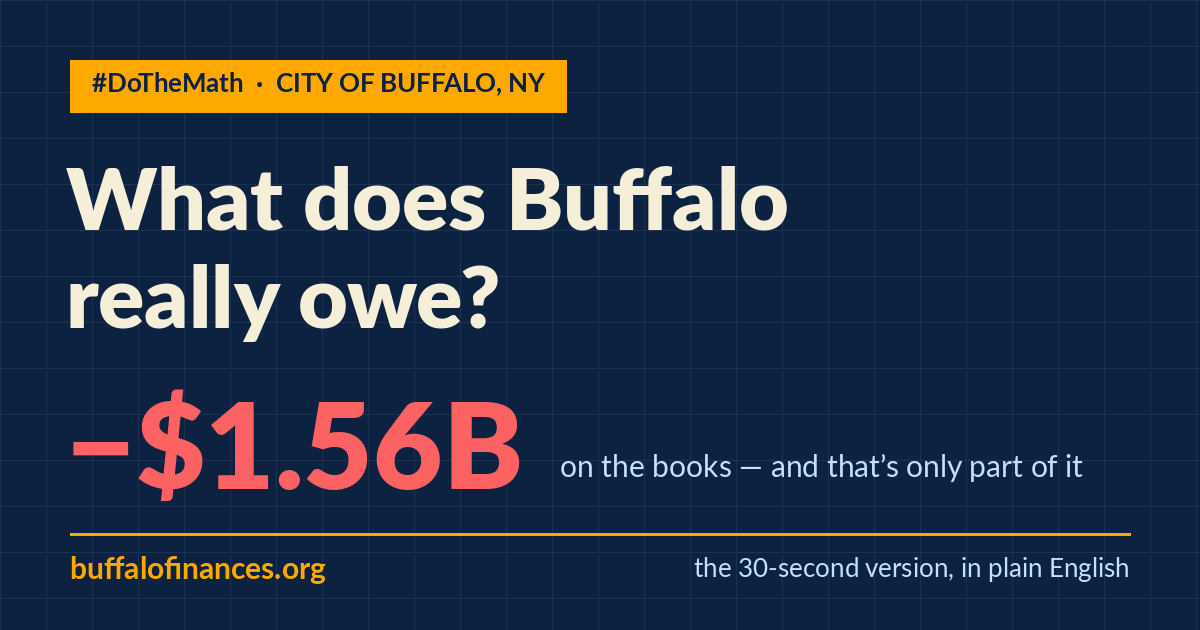
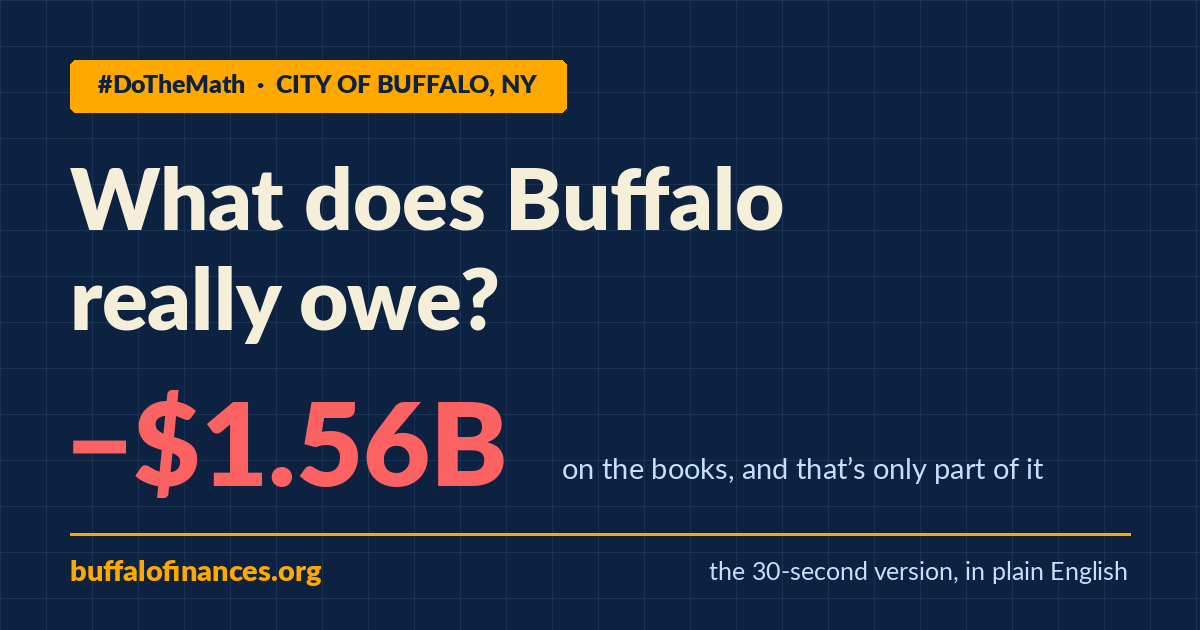
Add files via upload

diff --git a/take-action.html b/take-action.html
@@ -152,14 +152,14 @@
       <details><summary>Why this number, and why it's winnable</summary>
       <div>
       <p>The city keeps track of how old its roads and pipes are getting, but it has never published what fixing them would cost. And you can't plan for, or budget for, a cost that's never been totaled. The good news: a rough first estimate is cheap and quick to produce, and it takes just one Council member to ask for it.</p>
-      <p>Nobody here wants to cut Buffalo down to size. The point is being able to <strong>afford the things that make it worth living in</strong>, good parks, open libraries, clean water, reliable services, and to keep affording them.</p>
+      <p>Nobody here wants a smaller, cheaper Buffalo. The point is being able to <strong>afford the things that make it worth living in</strong>, good parks, open libraries, clean water, reliable services, and to keep affording them.</p>
       </div>
       </details>
     </div>
   </section>
 
   <section>
-    <p class="endorse">This isn't a fringe request. In May 2026, Richard Ciccarone, President Emeritus of Merritt Research Services (an Investortools company), studied nearly 2,000 U.S. cities, pegged their unmeasured infrastructure-repair burden at about $1&nbsp;trillion, larger than their bonded debt and unfunded pensions combined, and urged cities to start measuring and publishing exactly this number. Buffalo can be one of the first. <a class="il" href="https://www.investortools.com/news-insights/new-report-finds-u-s-cities-face-1-trillion-infrastructure-replacement-obligation/" target="_blank" rel="noopener">Read the report&nbsp;&#8599;</a></p>
+    <p class="endorse">This isn't a fringe request. In May 2026, Richard Ciccarone, President Emeritus of Merritt Research Services (an Investortools company), studied nearly 2,000 U.S. cities and pegged their unmeasured infrastructure-repair burden at about $1&nbsp;trillion, larger than their bonded debt and unfunded pensions combined. He urged cities to start measuring and publishing exactly this number. Buffalo can be one of the first. <a class="il" href="https://www.investortools.com/news-insights/new-report-finds-u-s-cities-face-1-trillion-infrastructure-replacement-obligation/" target="_blank" rel="noopener">Read the report&nbsp;&#8599;</a></p>
   </section>
 
   <section>
@@ -173,7 +173,7 @@
           <span class="pk-check">&#10003;</span>
           <span>Your Council member: <strong id="pkName"></strong> &middot; <span id="pkEmail"></span></span>
           <a id="pkVerify" href="https://www.buffalony.gov/Directory.aspx?did=65" target="_blank" rel="noopener">verify in the city's staff directory &#8599;</a>
-          <span style="flex-basis:100%;font-size:.86rem;color:var(--text-mid)">Tip: letters get read sooner when the district office staff see them too. The <a href="https://www.buffalony.gov/Directory.aspx?did=65" target="_blank" rel="noopener">staff directory</a> lists each office's legislative assistants&mdash;consider CC'ing them.</span>
+          <span style="flex-basis:100%;font-size:.86rem;color:var(--text-mid)">Tip: letters get read sooner when the district office staff see them too. The <a href="https://www.buffalony.gov/Directory.aspx?did=65" target="_blank" rel="noopener">staff directory</a> lists each office's legislative assistants; consider CC'ing them.</span>
         </div>
         <p class="note" style="margin-top:10px">Member emails checked July 2026 against the city's <a href="https://www.buffalony.gov/Directory.aspx?did=65" target="_blank" rel="noopener">Common Council staff directory</a>. If one bounces, the directory has the latest.</p>
       </div>
@@ -252,13 +252,21 @@ var FULL = [
 "",
 "I'm a Buffalo resident in your district, and I'm writing with one specific, low-cost request.",
 "",
-"My request: that the City of Buffalo publish, once a year, a single 'cost of good repair' figure: roughly what it would take to bring the roads, water mains, and buildings the city already owns back to good condition, from the potholes we all dodge to the pipes underground.",
+"My request",
+"That the City of Buffalo publish, once a year, a single 'cost of good repair' figure: roughly what it would take to bring the roads, water mains, and buildings we already own back to good condition, from the potholes we all dodge to the pipes underground.",
 "",
-"Why it matters: Buffalo's own audited reports show that much of what the city owes is promises it hasn't set money aside for, plus repair needs that no report totals. The audit records how worn our infrastructure is, about half its value already used up, but never what fixing it would cost. Without that number, neither the city nor the Council can plan for its biggest unmeasured cost. With it published each year, the city can tackle the most urgent repairs first and show residents real progress.",
+"Why it matters",
+"• Much of what Buffalo owes is promises it hasn't funded, plus repair needs that no report totals.",
+"• The audit records how worn our infrastructure is, about half its value already used up, but never what fixing it would cost.",
+"• Without that number, neither the city nor the Council can plan for its single biggest unmeasured cost.",
+"• Published each year, the figure lets the city fix the most urgent things first and show residents real progress.",
 "",
-"Why it's achievable: a first rough estimate can be built from figures already in the audit. Federal agencies and New York City publish versions of this number, and Buffalo's move this year to data-driven, needs-based paving is exactly the right foundation. This request simply extends that work from a ranked list of streets to one published dollar figure for everything we own.",
+"Why it's achievable",
+"• A first rough estimate can be built from figures already in the audit.",
+"• Federal agencies and New York City already publish versions of this number.",
+"• Buffalo's new data-driven, needs-based paving is the right foundation; this simply extends it from a ranked list of streets to one dollar figure for everything we own.",
 "",
-"I'm not writing to point fingers. The city has taken real steps on its finances lately, and this is a natural next one. I want Buffalo to thrive: a city that can afford good parks, open libraries, clean water, and reliable services, and keep affording them.",
+"I'm not writing to point fingers. The city has taken real steps on its finances lately, and this is a natural next one. I want Buffalo to thrive, and to keep affording the things that make it worth living in: good parks, open libraries, clean water, and reliable services.",
 "",
 "Would you support requesting this number this year? I'd be grateful to know where you stand. Every figure behind this request is public and checkable at buffalofinances.org.",
 "",
@@ -273,9 +281,14 @@ var SHORT = [
 "",
 "I live in your district, and I'm writing with one specific request.",
 "",
-"My request: that the City of Buffalo publish, once a year, a single 'cost of good repair' number: roughly what it would take to bring the roads, water mains, and buildings we already own back to good condition.",
+"My request",
+"That the City of Buffalo publish, once a year, a single 'cost of good repair' number: roughly what it would take to bring the roads, water mains, and buildings we already own back to good condition.",
 "",
-"Why: the city's audited reports record how worn our infrastructure is, but no report totals what fixing it would cost, and you can't budget for a cost that's never been totaled. A first rough estimate can be built from figures already in the audit, and the city's new data-driven paving program is exactly the right start. (Every figure: buffalofinances.org)",
+"Why it matters",
+"• The city's audited reports record how worn our infrastructure is, but no report totals what fixing it would cost, and you can't budget for a cost that's never been totaled.",
+"• A first estimate can be built from figures already in the audit, and the city's new data-driven paving program is the right start to build on.",
+"",
+"Every figure behind this request is public at buffalofinances.org.",
 "",
 "Would you support requesting this number this year? I'd be grateful to know where you stand.",
 "",

diff --git a/finances-explained.html b/finances-explained.html
@@ -65,6 +65,8 @@
   .answer-num{font-size:clamp(4.5rem,16vw,8rem);color:var(--coral-deep);margin:4px 0 6px}
   .big-sec{font-size:clamp(3rem,12vw,6.5rem);margin:6px 0 8px}
   .perhh{font-size:1.12rem;color:var(--navy);font-weight:700;margin-bottom:8px}
+  .keypoint{background:var(--cream);border-left:4px solid var(--coral-deep);border-radius:0 10px 10px 0;padding:16px 20px;margin:26px 0;font-size:1.06rem;line-height:1.5;color:var(--navy)}
+  .keypoint strong{color:var(--coral-deep)}
   .perhh span{color:var(--coral-deep)}
   .eq{display:flex;align-items:stretch;gap:12px;flex-wrap:wrap;margin:26px 0 6px}
   .eq .box{flex:1;min-width:150px;background:#fff;border:1px solid #e4dcc4;border-radius:10px;padding:18px 16px;text-align:center;box-shadow:0 1px 4px rgba(0,0,0,.05)}
@@ -110,6 +112,11 @@
   .btn-line:hover{background:var(--navy);color:#fff}
   footer{background:var(--navy);color:rgba(197,223,252,.7);padding:40px 0;border-top:3px solid var(--gold);font-size:.85rem;line-height:1.6}
   footer p{color:rgba(197,223,252,.7)}
+  footer details.foot-collapse>summary{cursor:pointer;list-style:none;font-family:'Raleway',sans-serif;font-weight:800;color:var(--cream);padding:2px 0}
+  footer details.foot-collapse>summary::-webkit-details-marker{display:none}
+  footer details.foot-collapse>summary::after{content:' +';color:var(--gold);font-weight:700}
+  footer details.foot-collapse[open]>summary::after{content:' \2013';color:var(--gold)}
+  footer details.foot-collapse p{margin-top:8px}
   footer .wrap{max-width:760px}
   footer strong{color:var(--cream)}
   footer a{color:var(--gold);text-decoration:none;font-weight:700}
@@ -306,7 +313,7 @@
       <div class="op">=</div>
       <div class="box net"><div class="t">Where you stand</div><div class="d">Ahead, or behind</div></div>
     </div>
-    <p style="margin-top:22px;">A city has this number too: its <strong>net financial position</strong>. A city isn't trying to owe nothing; borrowing for a bridge that lasts fifty years is normal. The real test is <strong>whether it funds its promises and maintains what it owns</strong>, and that's the test this page walks through.</p>
+    <p style="margin-top:22px;">A city has this number too: its <strong>net financial position</strong>.</p>
   </div>
 </section>
 <!-- THE ANSWER -->
@@ -399,7 +406,7 @@
     <h2>One cost the books still leave out</h2>
     <div class="bignum big-sec count" role="img" aria-label="1.7 to 2.2 billion dollars" style="color:var(--coral-deep)" data-tpl="$@B&ndash;$#B" data-n="1.7" data-n2="2.2" data-dp="1">$1.7B&ndash;$2.2B</div>
     <p class="lead">Even after retiree health care, pensions, and debt, one real cost is still missing from the city's financial reports entirely: what it would take to fill the potholes, replace the worn-out water mains, and repair the aging buildings in an old, over-built city.</p>
-    <p>Buffalo's audit already admits the wear: about <strong>half the value</strong> of its roads, pipes, and buildings is used up, down from roughly 64% twenty years ago. It just doesn't yet total what fixing all that would cost. Run the city's own two numbers through the <a class="il" href="https://www.strongtowns.org/decoder" target="_blank">Strong Towns worksheet</a> and the replacement bill comes to an estimated <strong>$1.7 billion to $2.2 billion</strong>.</p>
+    <p>Buffalo's audit already admits the wear: about <strong>half the value</strong> of its roads, pipes, and buildings is used up, down from roughly 64% twenty years ago. It just doesn't yet total what fixing all that would cost. The replacement bill comes to an estimated <strong>$1.7 billion to $2.2 billion</strong>.</p>
     <details class="more"><summary>Show the math</summary>
     <div class="more-body">
     <div class="math">
@@ -410,12 +417,12 @@
     </div>
     </div></details>
     <p class="perhh" style="color:var(--coral-deep)">Per household, that's another <strong style="color:var(--coral-deep)">$14,000 to $18,000</strong>, on top of what's already owed.</p>
-    <p style="font-size:.98rem;">This is a back-of-the-envelope range, on purpose. The exact figure matters less than two things: it's <strong>large</strong>, and nobody publishes it.</p>
-<details class="more"><summary>Bond analysts have started measuring this number; cities still don't publish it</summary><div class="more-body"><p>Buffalo isn't unusual. In May 2026 the bond-research firm Investortools put this same unmeasured repair burden across all U.S. cities at about <strong>$1 trillion</strong>, 2.6 times their bonded debt and 4 times their unfunded pensions, derived with <a class="il" href="https://www.investortools.com/news-insights/new-report-finds-u-s-cities-face-1-trillion-infrastructure-replacement-obligation/" target="_blank" rel="noopener">the same accounting-based approach</a> this page uses. The analysts who study municipal credit have begun measuring this number. Credit ratings themselves mostly look past it, and that is worth understanding: a rating answers a narrow question, whether bondholders will be repaid, and they almost always are, because debt service gets paid first from a city with taxing power. The burden lands on residents instead, as thinner services and higher taxes. An A+ city can still fall steadily behind on its pipes.</p></div></details>
+    <div class="keypoint">The range is rough on purpose. Two things matter more than the exact figure: it's <strong>large</strong>, and <strong>nobody publishes it</strong>.</div>
 <p><strong>Buffalo has seen this movie before:</strong> twice in the last decade, an accounting rule forced a long-owed cost onto the books overnight. The repair bill is the next one, except this time the city doesn't have to wait for a rule to publish it.</p>
-<details class="more"><summary>The last two times the books caught up</summary>
+<details class="more"><summary>It's happened before, and it's not just Buffalo</summary>
 <div class="more-body">
 <p>In 2015, a new rule (GASB&nbsp;68) put the city's full pension promise on the books. In 2018, another (GASB&nbsp;75) added retiree health care, and roughly <strong>$877&nbsp;million</strong> appeared almost overnight. Neither was new spending; the money had always been owed. The rules just made the city show it, and before 2018 Buffalo's books looked far healthier than they were. The repair bill is the next cost like that, still waiting to surface.</p>
+<p>Buffalo isn't unusual. In May 2026 the bond-research firm Investortools put this same unmeasured repair burden across all U.S. cities at about <strong>$1 trillion</strong>, 2.6 times their bonded debt and 4 times their unfunded pensions, derived with <a class="il" href="https://www.investortools.com/news-insights/new-report-finds-u-s-cities-face-1-trillion-infrastructure-replacement-obligation/" target="_blank" rel="noopener">the same kind of accounting-based approach</a> this page uses. The analysts who study municipal credit have begun measuring this number. Credit ratings themselves mostly look past it, and that is worth understanding: a rating answers a narrow question, whether bondholders will be repaid, and they almost always are, because debt service gets paid first from a city with taxing power. The burden lands on residents instead, as thinner services and higher taxes. A city with an A+ bond rating can still fall steadily behind on its pipes.</p>
 </div></details>
     <details class="more win"><summary>The head start Buffalo already has</summary><div class="more-body"><p><strong>Buffalo has started.</strong> In 2026 the city moved to <a class="il" href="https://www.buffalony.gov/m/newsflash/home/detail/1617" target="_blank">data-driven, needs-based paving</a>, exactly the right instinct. The ask is to extend it from roads to water mains and buildings, and turn the paving list into one published dollar figure for the whole repair bill.</p></div></details>
   </div>
@@ -451,7 +458,7 @@
       <figcaption>What the city's audit already points to, what it leaves out, and the two added together, roughly $30,000 per household.</figcaption>
     </figure>
     <p class="punch" style="margin-top:16px">Buffalo's recovery is real, and its leaders point to genuine progress. But these costs are real too: one already sits in the city's audit, the other in no report at all.</p>
-<p style="margin-top:14px">No one will mail your household a $30,000 bill. It is still your share of what the city has promised, or let wear out, and hasn't paid for, and it comes due anyway: higher taxes, thinner services, or rougher roads. Getting ahead of it is how Buffalo keeps that share from growing.</p>
+<p style="margin-top:14px;color:#ff8a8a">No one will mail your household a $30,000 bill. It is still your share of what the city has promised, or let wear out, and hasn't paid for, and it comes due anyway: higher taxes, thinner services, or rougher roads. Getting ahead of it is how Buffalo keeps that share from growing.</p>
   </div>
 </section>
 <!-- THE LENS -->
@@ -480,7 +487,7 @@
       <figcaption>Half the payers, the whole network. That ratio, more than any single decision or administration, is why upkeep fell behind.</figcaption>
     </figure>
     <p class="take" style="margin-top:30px">2. The fix has a shape too.</p>
-    <p>In 2014, analysts at Urban3 ran the tax math on every parcel in the region for the <em>Dollars &amp; Sense</em> study. For every $1 of value per acre produced by a single-family house in Erie County, a house in Buffalo produced about $3, the average mall $7, a six-story mixed-use building $36, and the Guaranty Building downtown about <strong>$136</strong>. That building opened in 1896 and still tops the list. Compact, durable blocks quietly carry the city, while spread-out single-use land barely covers its own pipes.</p>
+    <p>In 2014, analysts at Urban3 ran the tax math across the region for the <em>Dollars &amp; Sense</em> study. For every $1 of value per acre produced by a single-family house in Erie County, a house in Buffalo produced about $3, the average mall $7, a six-story mixed-use building $36, and the Guaranty Building downtown about <strong>$136</strong>. That building opened in 1896 and still tops the list. Compact, durable blocks quietly carry the city, while spread-out single-use land barely covers its own pipes.</p>
     <figure class="fade">
 <svg viewBox="0 0 760 504" xmlns="http://www.w3.org/2000/svg" role="img" aria-label="Value produced per acre for all fourteen property types in the 2014 Urban3 study, indexed to an Erie County single-family house at one dollar. From the top: Guaranty Building 136, six-story mixed use 36, Main Street mixed use 29, large multifamily 18, residential-commercial conversion 13, small multifamily 10, Walden Galleria 9, three-story mixed use 9, average mall 7, Buffalo house 3, big box 3, strip mall 2, county house 1, heavy industry 30 cents. Mixed-use buildings dominate the top of the chart."><rect x="238" y="8" width="13" height="13" rx="3" fill="#1a7a5a"/><text x="256" y="19" font-family="Lato,sans-serif" font-size="11.5" fill="#4a4a4a">Mixed use</text><rect x="344" y="8" width="13" height="13" rx="3" fill="#d97b6c"/><text x="362" y="19" font-family="Lato,sans-serif" font-size="11.5" fill="#4a4a4a">Commercial</text><rect x="462" y="8" width="13" height="13" rx="3" fill="#8fb0d4"/><text x="480" y="19" font-family="Lato,sans-serif" font-size="11.5" fill="#4a4a4a">Residential</text><text x="228" y="54" text-anchor="end" font-family="Lato,sans-serif" font-size="11.5" fill="#4a4a4a">Guaranty Building, downtown</text><rect x="238" y="40" width="449" height="19" rx="3" fill="#15634a"/><text x="679" y="54" text-anchor="end" font-family="Raleway,sans-serif" font-weight="900" font-size="13" fill="#fff">$136</text><text x="228" y="87" text-anchor="end" font-family="Lato,sans-serif" font-size="11.5" fill="#4a4a4a">Mixed use, 6-story</text><rect x="238" y="73" width="119" height="19" rx="3" fill="#1a7a5a"/><text x="364" y="87" font-family="Raleway,sans-serif" font-weight="900" font-size="12.5" fill="#0c2240">$36</text><text x="228" y="120" text-anchor="end" font-family="Lato,sans-serif" font-size="11.5" fill="#4a4a4a">Main St mixed use, 3-story</text><rect x="238" y="106" width="96" height="19" rx="3" fill="#1a7a5a"/><text x="341" y="120" font-family="Raleway,sans-serif" font-weight="900" font-size="12.5" fill="#0c2240">$29</text><text x="228" y="153" text-anchor="end" font-family="Lato,sans-serif" font-size="11.5" fill="#4a4a4a">Large multifamily</text><rect x="238" y="139" width="59" height="19" rx="3" fill="#8fb0d4"/><text x="304" y="153" font-family="Raleway,sans-serif" font-weight="900" font-size="12.5" fill="#0c2240">$18</text><text x="228" y="186" text-anchor="end" font-family="Lato,sans-serif" font-size="11.5" fill="#4a4a4a">Residential-commercial conversion</text><rect x="238" y="172" width="43" height="19" rx="3" fill="#d97b6c"/><text x="288" y="186" font-family="Raleway,sans-serif" font-weight="900" font-size="12.5" fill="#0c2240">$13</text><text x="228" y="219" text-anchor="end" font-family="Lato,sans-serif" font-size="11.5" fill="#4a4a4a">Small multifamily</text><rect x="238" y="205" width="33" height="19" rx="3" fill="#8fb0d4"/><text x="278" y="219" font-family="Raleway,sans-serif" font-weight="900" font-size="12.5" fill="#0c2240">$10</text><text x="228" y="252" text-anchor="end" font-family="Lato,sans-serif" font-size="11.5" fill="#4a4a4a">Walden Galleria</text><rect x="238" y="238" width="30" height="19" rx="3" fill="#d97b6c"/><text x="275" y="252" font-family="Raleway,sans-serif" font-weight="900" font-size="12.5" fill="#0c2240">$9</text><text x="228" y="285" text-anchor="end" font-family="Lato,sans-serif" font-size="11.5" fill="#4a4a4a">Mixed use, 3-story</text><rect x="238" y="271" width="30" height="19" rx="3" fill="#1a7a5a"/><text x="275" y="285" font-family="Raleway,sans-serif" font-weight="900" font-size="12.5" fill="#0c2240">$9</text><text x="228" y="318" text-anchor="end" font-family="Lato,sans-serif" font-size="11.5" fill="#4a4a4a">Average mall</text><rect x="238" y="304" width="23" height="19" rx="3" fill="#d97b6c"/><text x="268" y="318" font-family="Raleway,sans-serif" font-weight="900" font-size="12.5" fill="#0c2240">$7</text><text x="228" y="351" text-anchor="end" font-family="Lato,sans-serif" font-size="11.5" fill="#4a4a4a">Buffalo single-family house</text><rect x="238" y="337" width="10" height="19" rx="3" fill="#8fb0d4"/><text x="255" y="351" font-family="Raleway,sans-serif" font-weight="900" font-size="12.5" fill="#0c2240">$3</text><text x="228" y="384" text-anchor="end" font-family="Lato,sans-serif" font-size="11.5" fill="#4a4a4a">Average big box</text><rect x="238" y="370" width="10" height="19" rx="3" fill="#d97b6c"/><text x="255" y="384" font-family="Raleway,sans-serif" font-weight="900" font-size="12.5" fill="#0c2240">$3</text><text x="228" y="417" text-anchor="end" font-family="Lato,sans-serif" font-size="11.5" fill="#4a4a4a">Strip mall</text><rect x="238" y="403" width="7" height="19" rx="3" fill="#d97b6c"/><text x="252" y="417" font-family="Raleway,sans-serif" font-weight="900" font-size="12.5" fill="#0c2240">$2</text><text x="228" y="450" text-anchor="end" font-family="Lato,sans-serif" font-size="11.5" fill="#4a4a4a">Erie County single-family house (baseline)</text><rect x="238" y="436" width="3" height="19" rx="3" fill="#8fb0d4"/><text x="248" y="450" font-family="Raleway,sans-serif" font-weight="900" font-size="12.5" fill="#0c2240">$1</text><text x="228" y="483" text-anchor="end" font-family="Lato,sans-serif" font-size="11.5" fill="#4a4a4a">Average heavy industry</text><rect x="238" y="469" width="2" height="19" rx="3" fill="#d97b6c"/><text x="247" y="483" font-family="Raleway,sans-serif" font-weight="900" font-size="12.5" fill="#0c2240">30&cent;</text></svg>
       <figcaption>Value produced per acre, all fourteen property types from the study, indexed to an Erie County single-family house = $1. Every mixed-use type outperforms every single-use type below it. Source: <a class="il" href="https://www.urbanthree.com/" target="_blank" rel="noopener">Urban3</a>, &ldquo;The Dollars &amp; Sense of Development Patterns: Buffalo Niagara&rdquo; (2014, for One Region Forward). Assessments have moved since, and the same pattern shows up in every region Urban3 has mapped.</figcaption>
@@ -531,7 +538,7 @@
 <!-- QUESTIONS & OBJECTIONS -->
 <section class="band-off" id="questions">
   <div class="wrap">
-    <span class="kicker">For the skeptics</span>
+    <span class="kicker">Fair questions</span>
     <h2>Questions &amp; objections</h2>
     <details class="more"><summary>What about borrowing? Should the city take on more?</summary>
       <div class="more-body">
@@ -609,7 +616,9 @@
 <!-- FOOTER -->
 <footer>
   <div class="wrap">
-    <p><strong>How the numbers were built.</strong> <em>Net financial position</em> = Buffalo's money-like assets (cash, investments, and money owed to it) minus everything it owes, for the city as a whole, from the 2025 Annual Comprehensive Financial Report; the yearly figures cover 2006&ndash;2025. The cliff follows an accounting rule (GASB&nbsp;75, 2018) that first required cities to report their full retiree-health promise; an earlier rule (GASB&nbsp;68, 2015) did the same for pensions. The <em>repair-bill estimate</em> follows the Strong Towns <a href="https://www.strongtowns.org/decoder" target="_blank">Infrastructure Liability Worksheet</a>: the wear the audit records ($957.7M) restated to today's construction prices (&times;1.75 to &times;2.25). Per-household figures use about 117,000 Buffalo households (U.S. Census, ACS). See the full <a href="data-sources.html">data &amp; sources</a>.</p>
+    <details class="foot-collapse"><summary>How the numbers were built</summary>
+    <p><em>Net financial position</em> = Buffalo's money-like assets (cash, investments, and money owed to it) minus everything it owes, for the city as a whole, from the 2025 Annual Comprehensive Financial Report; the yearly figures cover 2006&ndash;2025. The cliff follows an accounting rule (GASB&nbsp;75, 2018) that first required cities to report their full retiree-health promise; an earlier rule (GASB&nbsp;68, 2015) did the same for pensions. The <em>repair-bill estimate</em> follows the Strong Towns <a href="https://www.strongtowns.org/decoder" target="_blank">Infrastructure Liability Worksheet</a>: the wear the audit records ($957.7M) restated to today's construction prices (&times;1.75 to &times;2.25). Per-household figures use about 117,000 Buffalo households (U.S. Census, ACS). See the full <a href="data-sources.html">data &amp; sources</a>.</p>
+    </details>
     <p class="dis">An independent #DoTheMath explainer, for educational purposes. Not affiliated with or endorsed by the City of Buffalo. The repair-bill figure is a deliberately rough range; verify against the source documents before relying on it.</p>
   </div>
 </footer>

diff --git a/index.html b/index.html
@@ -31,6 +31,9 @@
   h1{font-family:'Raleway',sans-serif;font-weight:900;font-size:clamp(2rem,5.6vw,3.1rem);line-height:1.07;letter-spacing:-0.02em;margin-bottom:14px}
   h1 span{color:var(--gold)}
   .sub{font-size:1.08rem;color:var(--sky);max-width:540px}
+  .badge-row{display:flex;align-items:center;flex-wrap:wrap;gap:8px 14px;margin-bottom:20px}
+  .badge-row .badge{margin-bottom:0}
+  .badge-tag{font-family:'Raleway',sans-serif;font-weight:700;font-size:.78rem;letter-spacing:.04em;color:var(--sky);opacity:.85}
   /* ===== ANSWER CARD ===== */
   .answer-card{background:#fff;border:1px solid #ece4cf;border-radius:16px;box-shadow:0 14px 44px rgba(12,34,64,.30);padding:28px 26px 22px;margin-top:30px;text-align:center}
   .num{font-family:'Raleway',sans-serif;font-weight:900;font-size:clamp(2.9rem,13vw,4.7rem);line-height:.96;letter-spacing:-0.02em;margin:2px 0 6px;color:var(--coral-deep);transition:color .35s ease,transform .35s ease}
@@ -182,7 +185,10 @@
 <header class="hero">
 <svg class="skyline" viewBox="0 0 1200 140" preserveAspectRatio="xMidYMax slice" aria-hidden="true"><path d="M0 140 L0 96 L36 96 L36 74 L84 74 L84 108 L130 108 L130 60 L142 60 L142 50 L178 50 L178 60 L190 60 L190 108 L240 108 L240 84 L300 84 L300 118 L356 118 L356 66 L410 66 L410 96 L468 96 L468 108 L500 108 L500 88 L560 88 L560 74 L576 74 L576 40 L590 40 L590 22 L596 22 L600 8 L604 22 L610 22 L610 40 L624 40 L624 74 L640 74 L640 88 L700 88 L700 108 L740 108 L740 70 L796 70 L796 96 L860 96 L860 54 L872 54 L872 44 L908 44 L908 54 L920 54 L920 96 L980 96 L980 116 L1040 116 L1040 80 L1100 80 L1100 100 L1160 100 L1160 90 L1200 90 L1200 140 Z"/></svg>
   <div class="wrap">
-    <span class="badge">#DoTheMath · City of Buffalo, NY</span>
+    <div class="badge-row">
+      <span class="badge">#DoTheMath · City of Buffalo, NY</span>
+      <span class="badge-tag">A Strong Towns Buffalo project</span>
+    </div>
     <h1>What does Buffalo really <span>owe</span>?</h1>
     <p class="sub">Buffalo's finances are more understandable, and more fixable, than they look. Here's the honest picture in plain English, and the small first step anyone can push for.</p>
     <div class="answer-card">
@@ -259,7 +265,7 @@
     </a>
   </div>
   <div class="getinvolved">
-    <p>Buffalo's turning a corner, and the to-do list is clear: keep our promises, care for what we own, and grow so new things pay for themselves. Zero debt was never the goal. What matters is a Buffalo that can <strong>afford good things</strong>, good parks, open libraries, clean water, reliable services, and keep affording them for the long haul. <a href="https://www.strongtownsbuffalo.com" target="_blank">Get involved with Strong Towns Buffalo &#8594;</a></p>
+    <p>Buffalo's turning a corner, and the to-do list is clear: keep our promises, care for what we own, and grow by filling in the streets we already serve, so new development pays for itself. We deserve a Buffalo that can <strong>afford good things</strong>, good parks, open libraries, clean water, reliable services, and keep affording them for the long haul. <a href="https://www.strongtownsbuffalo.com" target="_blank">Get involved with Strong Towns Buffalo &#8594;</a></p>
   </div>
 </main>
 <footer>

diff --git a/finance-decoder.html b/finance-decoder.html
@@ -480,8 +480,8 @@
     <p class="summary-footnote">The charts below break it down, grouped by those three questions.</p>
     <div class="outside-review">
       <details class="context-expand" style="margin-top:0"><summary>We're not the only ones doing this math</summary>
-      <p style="margin-top:10px">In <a class="il" href="https://www.osc.ny.gov/press/releases/2026/05/dinapoli-releases-budget-review-city-buffalo" target="_blank">May 2026</a> the New York State Comptroller flagged a structural gap in Buffalo's 2026-27 budget and noted the city had long leaned on non-recurring revenue, including <strong>$331 million</strong> of federal stimulus since 2020-21. The city took that seriously: its adopted 2026-27 budget closes the gap largely through a <strong>19% property-tax levy increase</strong> (trimmed from a proposed 25.8%) and added state aid, a hard step toward what the administration calls &ldquo;returning to fiscal stability.&rdquo; Earlier, in <a class="il" href="https://www.buffalocomptroller.com/DocumentCenter/View/1019/SP-Ratings-for-Buffalo-NY-September-2025" target="_blank">September 2025</a>, months before this budget, S&amp;P had cut its outlook on Buffalo's investment-grade bonds to <strong>Negative</strong> (from Stable), citing the reserve drawdown and continued reliance on one-time revenue. The long-term obligations on this page are why steps this hard keep being necessary, and why getting ahead of them matters.</p>
-      <p>The pattern is national, too: in May 2026 the bond-analytics firm <a class="il" href="https://www.investortools.com/news-insights/new-report-finds-u-s-cities-face-1-trillion-infrastructure-replacement-obligation/" target="_blank" rel="noopener">Investortools</a> quantified the unmeasured repair burden across U.S. cities at about <strong>$1.03 trillion</strong>, 2.6 times their bonded debt and 4 times their unfunded pensions, derived the same way this page derives Buffalo's: from accumulated depreciation in the audited statements.</p>
+      <p style="margin-top:10px">Buffalo's own overseers see the same strain. In <a class="il" href="https://www.osc.ny.gov/press/releases/2026/05/dinapoli-releases-budget-review-city-buffalo" target="_blank">May 2026</a> the NYS Comptroller flagged a structural gap in the 2026-27 budget and the city's long reliance on one-time money, including <strong>$331 million</strong> in federal stimulus since 2020. The adopted budget closed the gap with a <strong>19% property-tax increase</strong> and added state aid. Months earlier, in <a class="il" href="https://www.buffalocomptroller.com/DocumentCenter/View/1019/SP-Ratings-for-Buffalo-NY-September-2025" target="_blank">September 2025</a>, S&amp;P had cut Buffalo's bond outlook to <strong>Negative</strong>, citing the same reserve drawdown and one-time revenue.</p>
+      <p>The pattern is national. In May 2026, <a class="il" href="https://www.investortools.com/news-insights/new-report-finds-u-s-cities-face-1-trillion-infrastructure-replacement-obligation/" target="_blank" rel="noopener">Investortools</a> put the unmeasured repair burden across U.S. cities at about <strong>$1.03 trillion</strong>, 2.6 times their debt and 4 times their pensions, using the same audited-depreciation method this page uses for Buffalo.</p>
       </details>
     </div>
   </div>
@@ -630,7 +630,7 @@
               <div class="takeaway-label">The catch</div>
               Deferred maintenance compounds. Skip a year of repaving and the road degrades faster, costing more to fix later. Buffalo built more than it can afford to maintain, and much of that infrastructure was built in the same era, which means large portions are aging on the same schedule. Strong Towns argues that cities should <a class="il" href="https://www.strongtowns.org/journal/2024-7-22-what-strong-towns-really-says-about-infrastructure-spending" target="_blank">prioritize maintaining existing infrastructure</a> over building new, and that every new investment should be evaluated by whether it generates enough revenue to cover its long-term maintenance costs.
             </div>
-            <div class="chart-cta">This wear is the repair bill nobody totals &mdash; the one number this project asks the city to publish. <a href="finances-explained.html#part3">Read the case</a> or <a href="take-action.html">send the ask</a>.</div>
+            <div class="chart-cta">This wear is the repair bill nobody totals, the one number this project asks the city to publish. <a href="finances-explained.html#part3">Read the case</a> or <a href="take-action.html">send the ask</a>.</div>
           </div>
         </div>
       </div>

diff --git a/data-sources.html b/data-sources.html
@@ -271,7 +271,7 @@
       <li><strong>Government transfers</strong> counts state and federal aid and grants: operating grants, capital grants, state aid (Buffalo's AIM payment is ~$166M), and unrestricted grants. Buffalo's share of Erie County sales tax (the ACFR's "intergovernmental" general revenue, ~$115M in 2025) is treated as local revenue and excluded, so this measures dependence on aid that could be cut. On that basis the share runs from about 35% in 2006 to roughly 42% in 2025.</li>
       <li><strong>Interest</strong> is all interest expense on the Total Primary Government basis: governmental interest and fiscal charges plus the enterprise funds' interest (water system and parking) from the proprietary-fund statements, matching the rest of the page. Most of the decline since 2006 is in the city's tax-supported governmental interest; what remains is largely the self-supporting water system covering its own bonds. Enterprise interest (the self-supporting water and parking systems) comes from the audited proprietary-fund statements; FY2020, which has no standalone report, is taken from the FY2021 report's comparative column.</li>
       <li><strong>Total revenue</strong> is computed as total program revenues plus governmental general revenues, excluding interfund transfers (within ~0.1% of the MD&amp;A "Total revenues" line each year).</li>
-      <li><strong>The repair-bill estimate</strong> restates the audit's accumulated depreciation ($957.7M in 2025) to today's construction prices (&times;1.75 to &times;2.25), giving a deliberately rough $1.7B&ndash;$2.2B range. The same accounting-based approach underpins the &ldquo;ICA Burden&rdquo; framework published by <a class="il" href="https://www.investortools.com/news-insights/new-report-finds-u-s-cities-face-1-trillion-infrastructure-replacement-obligation/" target="_blank" rel="noopener">Investortools</a> (May 2026), which puts the equivalent burden across all U.S. cities at about $1.03 trillion.</li>
+      <li><strong>The repair-bill estimate</strong> restates the audit's accumulated depreciation ($957.7M in 2025) to today's construction prices (&times;1.75 to &times;2.25), giving a deliberately rough $1.7B&ndash;$2.2B range. The same kind of accounting-based approach underpins the &ldquo;ICA Burden&rdquo; framework published by <a class="il" href="https://www.investortools.com/news-insights/new-report-finds-u-s-cities-face-1-trillion-infrastructure-replacement-obligation/" target="_blank" rel="noopener">Investortools</a> (May 2026), which puts the equivalent burden across all U.S. cities at about $1.03 trillion.</li>
       <li><strong>Value-per-acre comparisons</strong> (Guaranty Building &asymp;136&times; a county house, transit corridor &asymp;3&times; Transit Road, United Office Building vs. Eastern Hills Mall) come from Urban3's <em>The Dollars &amp; Sense of Development Patterns: Buffalo Niagara Regional Report</em> (2014, prepared for One Region Forward). The assessed values are a decade old and are cited for the pattern, which Urban3 has since documented in hundreds of regions.</li>
       <li><strong>Per-household figures</strong> use about 117,000 Buffalo households (U.S. Census, ACS).</li>
     </ul>